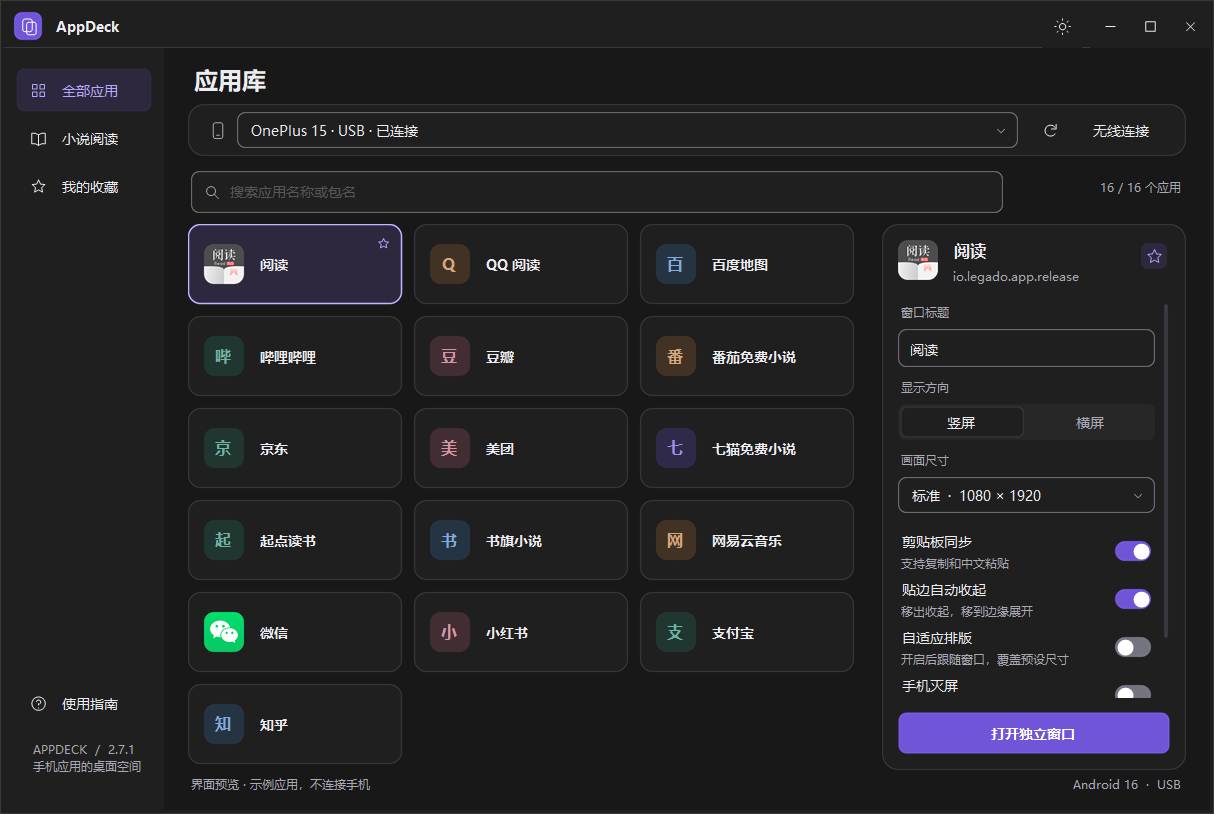
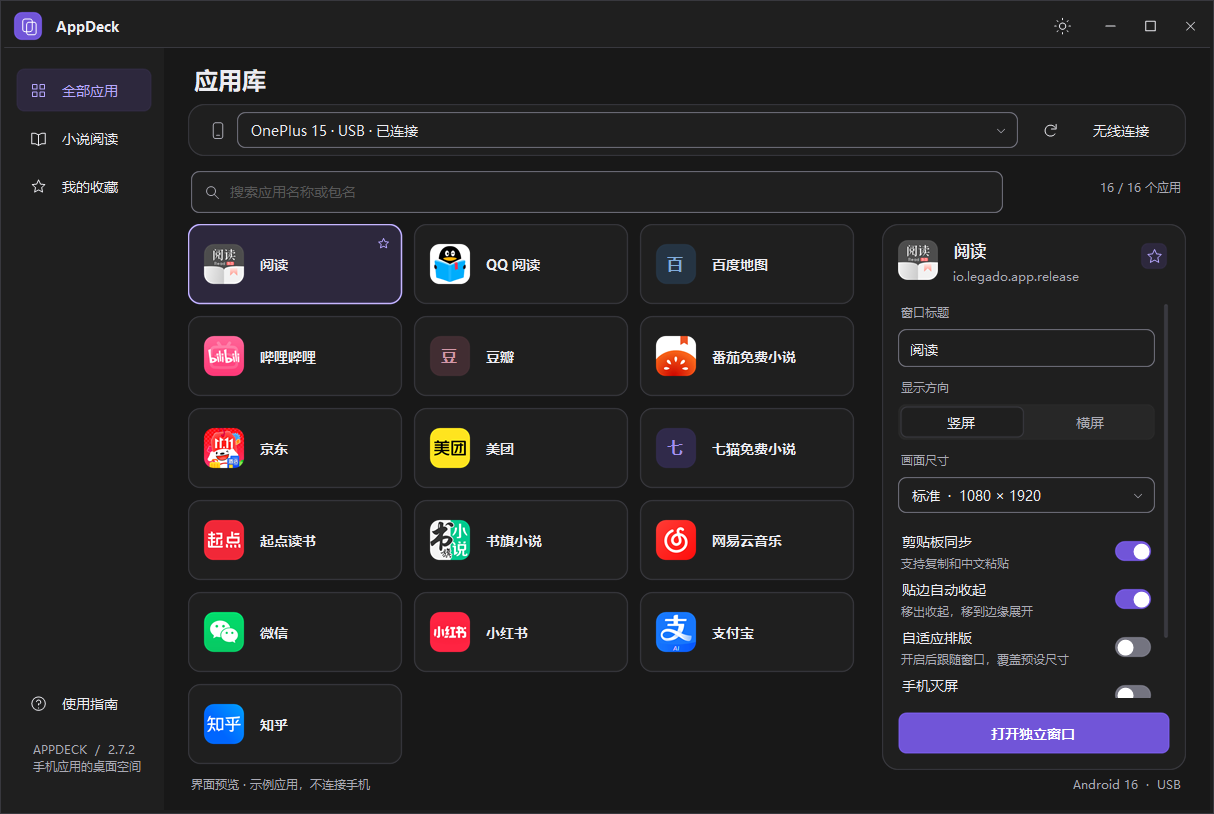
修复 2.7.2：窗口边框完整性与应用缓存优先显示

diff --git a/src/MainForm.cs b/src/MainForm.cs
@@ -22,7 +22,7 @@ namespace AppDeck {
         readonly HashSet<string> openingSessions=new HashSet<string>();
         readonly string[] startupArgs;readonly bool preview;
         List<AndroidApp> apps=new List<AndroidApp>();Button refresh,launch;IconButton favorite,themeButton;NotifyIcon tray;ContextMenuStrip trayMenu;int category,loadGeneration;
-        bool refreshing,closing,closeRequested,appsLoading,hiddenToTray,forceExit;string deviceSignature="",catalogError="";
+        bool refreshing,closing,closeRequested,appsLoading,hiddenToTray,forceExit;string deviceSignature="",catalogError="",catalogDevice="";
         public MainForm(string[] args){
             startupArgs=args;preview=args.Contains("--preview");Text="AppDeck";ClientSize=new Size(1200,800);MinimumSize=new Size(1050,740);StartPosition=FormStartPosition.CenterScreen;KeyPreview=true;
             themeButton=Caption.AddAction(Theme.Dark?"sun":"moon","切换亮色 / 暗色",(s,e)=>ToggleTheme());
@@ -103,16 +103,31 @@ namespace AppDeck {
             if(closeRequested||IsDisposed)return;if(SelectedDevice!=null)await LoadApps();if(recoveryNotice.Length>0&&!IsDisposed)status.Text=recoveryNotice;
         }
         async Task LoadApps(){
-            if(closeRequested)return;catalogError="";int generation=++loadGeneration;var device=SelectedDevice;appsLoading=device!=null&&device.State=="device";apps.Clear();RenderApps();if(device==null)return;if(device.State!="device"){deviceInfo.Text=device.State=="unauthorized"?"请在手机上允许 USB 调试。":"设备离线，请重新连接。";status.Text=deviceInfo.Text;return;}
-            if(device.Wireless&&String.IsNullOrEmpty(device.HardwareId)){appsLoading=false;RenderApps();status.Text="无线设备身份尚未确认，请稍候刷新后重试。";return;}
-            status.Text="正在读取手机应用…";launch.Enabled=false;
-            try{await TaskLease.Recover(device.Serial,device.HardwareId);var appTask=Commands.Run(Paths.Scrcpy,new[]{"-s",device.Serial,"--list-apps"},45000);var modelTask=Commands.Adb(device.Serial,"shell","getprop","ro.product.model");var verTask=Commands.Adb(device.Serial,"shell","getprop","ro.build.version.release");await Task.WhenAll(appTask,modelTask,verTask);var r=await appTask;r.Ensure();var model=await modelTask;var version=await verTask;if(generation!=loadGeneration||IsDisposed||closeRequested)return;appsLoading=false;apps=AndroidApp.Parse(r.Combined).Where(a=>!a.System).ToList();prefs.Serial=device.Serial;prefs.DeviceId=device.HardwareId??"";deviceInfo.Text=model.Output.Trim()+"  ·  Android "+version.Output.Trim();RenderApps();LoadIcons(device,apps,generation);status.Text="双击应用卡片打开窗口";}
-            catch(Exception ex){if(generation==loadGeneration&&!closeRequested){catalogError=ex.Message;status.Text="读取失败："+ex.Message;}}
+            if(closeRequested)return;catalogError="";int generation=++loadGeneration;var device=SelectedDevice;
+            if(device==null||device.State!="device"){
+                appsLoading=false;apps.Clear();catalogDevice="";RenderApps();
+                if(device!=null){deviceInfo.Text=device.State=="unauthorized"?"请在手机上允许 USB 调试。":"设备离线，请重新连接。";status.Text=deviceInfo.Text;}return;
+            }
+            if(device.Wireless&&String.IsNullOrEmpty(device.HardwareId)){appsLoading=false;apps.Clear();RenderApps();status.Text="无线设备身份尚未确认，请稍候刷新后重试。";return;}
+            string key=DeviceCache.Folder(device);var cached=DeviceCache.ReadCatalog(device);
+            if(cached.Count>0)apps=cached;else if(catalogDevice!=key)apps.Clear();catalogDevice=key;
+            appsLoading=true;AppIcons.AssignCached(device,apps);RenderApps();status.Text=apps.Count>0?"已显示本地应用，正在同步手机列表…":"正在读取手机应用…";
+            try{
+                await TaskLease.Recover(device.Serial,device.HardwareId);
+                var appTask=Commands.Run(Paths.Scrcpy,new[]{"-s",device.Serial,"--list-apps"},45000);
+                var modelTask=Commands.Adb(device.Serial,"shell","getprop","ro.product.model");var verTask=Commands.Adb(device.Serial,"shell","getprop","ro.build.version.release");
+                await Task.WhenAll(appTask,modelTask,verTask);var r=await appTask;r.Ensure();var model=await modelTask;var version=await verTask;
+                if(generation!=loadGeneration||IsDisposed||closeRequested)return;
+                var catalog=AndroidApp.Parse(r.Combined);if(catalog.Count==0)throw new Exception("未读取到应用列表，请稍后刷新。");
+                apps=catalog.Where(a=>!a.System).ToList();AppIcons.AssignCached(device,apps);DeviceCache.SaveCatalog(device,apps);
+                prefs.Serial=device.Serial;prefs.DeviceId=device.HardwareId??"";deviceInfo.Text=model.Output.Trim()+"  ·  Android "+version.Output.Trim();
+                appsLoading=false;RenderApps();LoadIcons(device,apps,generation);status.Text="双击应用卡片打开窗口";
+            }catch(Exception ex){if(generation==loadGeneration&&!closeRequested){catalogError=ex.Message;status.Text="读取失败："+ex.Message;}}
             finally{if(generation==loadGeneration&&!IsDisposed&&!closeRequested){appsLoading=false;RenderApps();}}
         }
-        void RenderApps(){string selected=SelectedApp==null?prefs.Package:SelectedApp.Package;var view=AppCatalog.Select(apps,category,search.Text,prefs.Favorites);appList.Loading=appsLoading;appList.EmptyTitle=catalogError.Length>0?"暂时无法读取应用":appsLoading?"正在读取应用":apps.Count==0?"等待手机连接":"没有找到应用";appList.EmptyDetail=catalogError.Length>0?"请检查手机连接，然后点击设备栏的刷新按钮重试。":appsLoading?"正在为你的应用准备桌面空间。":apps.Count==0?"连接 USB 或无线 ADB 后，应用会自动出现在这里。":"试试其他关键词，或切换到全部应用。";appList.SetItems(view,prefs.Favorites,selected);catalogCount.Text=appsLoading?"正在读取…":String.Format("{0} / {1} 个应用",view.Count,apps.Count);UpdateLaunchButtons();}
+        void RenderApps(){string selected=SelectedApp==null?prefs.Package:SelectedApp.Package;var view=AppCatalog.Select(apps,category,search.Text,prefs.Favorites);appList.Loading=appsLoading;appList.EmptyTitle=catalogError.Length>0?"暂时无法读取应用":appsLoading?"正在读取应用":apps.Count==0?"等待手机连接":"没有找到应用";appList.EmptyDetail=catalogError.Length>0?"请检查手机连接，然后点击设备栏的刷新按钮重试。":appsLoading?"正在为你的应用准备桌面空间。":apps.Count==0?"连接 USB 或无线 ADB 后，应用会自动出现在这里。":"试试其他关键词，或切换到全部应用。";appList.SetItems(view,prefs.Favorites,selected);catalogCount.Text=appsLoading?(apps.Count>0?"正在同步…":"正在读取…"):String.Format("{0} / {1} 个应用",view.Count,apps.Count);UpdateLaunchButtons();}
         async void LoadIcons(Device device,List<AndroidApp> catalog,int generation){try{AppIcons.AssignCached(device,catalog);appList.Invalidate();badge.Invalidate();await AppIcons.Fetch(device,catalog);if(!IsDisposed&&!closeRequested&&generation==loadGeneration){AppIcons.AssignCached(device,catalog);appList.Invalidate();badge.Invalidate();}}catch(Exception){}}
-        void UpdateLaunchButtons(){var d=SelectedDevice;bool connected=d!=null&&d.State=="device"&&!appsLoading&&(!d.Wireless||!String.IsNullOrEmpty(d.HardwareId));if(launch!=null)launch.Enabled=connected&&SelectedApp!=null;}
+        void UpdateLaunchButtons(){var d=SelectedDevice;bool connected=d!=null&&d.State=="device"&&!appsLoading&&catalogError.Length==0&&(!d.Wireless||!String.IsNullOrEmpty(d.HardwareId));if(launch!=null)launch.Enabled=connected&&SelectedApp!=null;}
         void LaunchSelected(){var a=SelectedApp;if(a!=null)Launch(a);}
         async void Launch(AndroidApp app,string captionOverride=null){
             if(!preview&&SelectedDevice!=null&&SelectedDevice.Wireless&&String.IsNullOrEmpty(SelectedDevice.HardwareId)){status.Text="请先等待无线设备身份核对完成。";return;}

diff --git a/src/UI.cs b/src/UI.cs
@@ -161,7 +161,7 @@ namespace AppDeck {
         int scrollOffset,maxScroll;bool scrollDrag;readonly ToolTip hint=new ToolTip{InitialDelay=600,ReshowDelay=200};
         public bool Loading {get;set;}
         public CatalogView(){DoubleBuffered=true;AutoScroll=false;TabStop=true;AccessibleName="应用卡片列表";SetStyle(ControlStyles.Selectable|ControlStyles.ResizeRedraw,true);Theme.Watch(this,()=>{BackColor=Theme.Paper;Invalidate();});}
-        public void SetItems(List<AndroidApp> data,HashSet<string> stars,string package){items=data;favorites=stars;selected=items.FindIndex(a=>a.Package==package);if(selected<0&&items.Count>0)selected=0;scrollOffset=0;Measure();Notify();Invalidate();}
+        public void SetItems(List<AndroidApp> data,HashSet<string> stars,string package){bool same=items.Select(a=>a.Package).SequenceEqual(data.Select(a=>a.Package));items=data;favorites=stars;selected=items.FindIndex(a=>a.Package==package);if(selected<0&&items.Count>0)selected=0;if(!same)scrollOffset=0;Measure();Notify();Invalidate();}
         void Notify(){var a=SelectedApp;AccessibleDescription=a==null?EmptyTitle:"已选择 "+a.Name+"，按 Enter 打开窗口";var h=SelectionChanged;if(h!=null)h(this,EventArgs.Empty);}
         void Measure(){using(var g=CreateGraphics())scale=g.DpiX/96f;gap=(int)(12*scale);cardHeight=(int)(80*scale);int available=Math.Max(1,ClientSize.Width-(int)(12*scale));cols=Math.Max(1,(available+gap)/(int)(204*scale));cardWidth=Math.Max(1,(available-gap*(cols-1))/cols);maxScroll=Math.Max(0,((items.Count+cols-1)/cols)*(cardHeight+gap)-gap-ClientSize.Height);scrollOffset=Math.Min(scrollOffset,maxScroll);}
         protected override void OnResize(EventArgs e){base.OnResize(e);Measure();Invalidate();}
@@ -190,11 +190,12 @@ namespace AppDeck {
     }
     internal class ModernForm:Form {
         public readonly Panel Body=new Panel();public readonly CaptionBar Caption;public bool FullBleed;
+        internal bool NativeBorderApplied {get;private set;}
         public ModernForm(){AutoScaleDimensions=new SizeF(96,96);AutoScaleMode=AutoScaleMode.Dpi;Font=Theme.Font();try{Icon=Icon.ExtractAssociatedIcon(Application.ExecutablePath);}catch{}FormBorderStyle=FormBorderStyle.None;DoubleBuffered=true;Padding=new Padding(4);Caption=new CaptionBar(this){Dock=DockStyle.Top,Height=44};Body.Dock=DockStyle.Fill;Controls.Add(Body);Controls.Add(Caption);Theme.Watch(this,()=>{BackColor=Theme.Surface;ForeColor=Theme.Ink;Body.BackColor=Theme.Paper;ApplyDwm();Invalidate(true);});TextChanged+=(s,e)=>Caption.Invalidate();}
         protected override CreateParams CreateParams{get{var cp=base.CreateParams;cp.Style=(cp.Style&~0x00C00000)|0x00040000|0x00080000|0x00020000|0x00010000;cp.ExStyle&=~0x00020301;return cp;}}
         protected override void OnHandleCreated(EventArgs e){base.OnHandleCreated(e);ApplyDwm();Native.SetWindowPos(Handle,IntPtr.Zero,0,0,0,0,0x0037);}
-        void ApplyDwm(){if(!IsHandleCreated)return;int dark=Theme.Dark?1:0,corners=2,noBorder=-2;try{DwmSetWindowAttribute(Handle,20,ref dark,4);DwmSetWindowAttribute(Handle,33,ref corners,4);DwmSetWindowAttribute(Handle,34,ref noBorder,4);var m=new Margins();DwmExtendFrameIntoClientArea(Handle,ref m);}catch(DllNotFoundException){}catch(EntryPointNotFoundException){}}
-        protected override void OnPaint(PaintEventArgs e){base.OnPaint(e);using(var pen=new Pen(Theme.Line))e.Graphics.DrawRectangle(pen,0,0,ClientSize.Width-1,ClientSize.Height-1);}
+        void ApplyDwm(){if(!IsHandleCreated)return;int dark=Theme.Dark?1:0,corners=2;Color color=Theme.Line;int border=color.R|(color.G<<8)|(color.B<<16);NativeBorderApplied=false;try{DwmSetWindowAttribute(Handle,20,ref dark,4);DwmSetWindowAttribute(Handle,33,ref corners,4);NativeBorderApplied=DwmSetWindowAttribute(Handle,34,ref border,4)==0;var m=new Margins();DwmExtendFrameIntoClientArea(Handle,ref m);}catch(DllNotFoundException){}catch(EntryPointNotFoundException){}}
+        protected override void OnPaint(PaintEventArgs e){base.OnPaint(e);if(!NativeBorderApplied)using(var pen=new Pen(Theme.Line))e.Graphics.DrawRectangle(pen,0,0,ClientSize.Width-1,ClientSize.Height-1);}
         protected override void WndProc(ref Message m){
             // Reserving no non-client area is not enough: DefWindowProc can repaint a
             // classic caption on activation or text changes. The client owns all chrome.
@@ -221,7 +222,7 @@ namespace AppDeck {
         public bool WindowButtonBoundsReady{get{return (!showMinimize||minimize.Width>=24)&&(!showMaximize||maximize.Width>=24)&&(!showClose||close.Width>=24);}}
         public IconButton AddAction(string glyph,string hint,EventHandler action){var b=new IconButton(glyph,hint);b.Click+=action;actions.Add(b);Controls.Add(b);PerformLayout();return b;}
         public IconButton AddLeading(string glyph,string hint,EventHandler action){Leading=new IconButton(glyph,hint);Leading.Click+=action;Controls.Add(Leading);PerformLayout();return Leading;}
-        protected override void OnLayout(LayoutEventArgs le){base.OnLayout(le);float s=Height/44f;int w=(int)(Compact?34*s:40*s),right=Width;close.Visible=showClose;maximize.Visible=showMaximize;minimize.Visible=showMinimize;if(showClose){right-=w;close.SetBounds(right,0,w,Height);}if(showMaximize){right-=w;maximize.SetBounds(right,0,w,Height);}if(showMinimize){right-=w;minimize.SetBounds(right,0,w,Height);}right-=(int)(8*s);for(int i=actions.Count-1;i>=0;i--){right-=w;actions[i].SetBounds(right,0,w,Height);}if(Leading!=null)Leading.SetBounds(0,0,w,Height);}
+        protected override void OnLayout(LayoutEventArgs le){base.OnLayout(le);float s=Height/44f;int w=(int)(Compact?34*s:40*s),right=Width,buttonHeight=Math.Max(1,Height-1);close.Visible=showClose;maximize.Visible=showMaximize;minimize.Visible=showMinimize;if(showClose){right-=w;close.SetBounds(right,0,w,buttonHeight);}if(showMaximize){right-=w;maximize.SetBounds(right,0,w,buttonHeight);}if(showMinimize){right-=w;minimize.SetBounds(right,0,w,buttonHeight);}right-=(int)(8*s);for(int i=actions.Count-1;i>=0;i--){right-=w;actions[i].SetBounds(right,0,w,buttonHeight);}if(Leading!=null)Leading.SetBounds(0,0,w,buttonHeight);}
         protected override void OnPaint(PaintEventArgs e){base.OnPaint(e);var g=e.Graphics;float s=Height/44f;g.SmoothingMode=SmoothingMode.AntiAlias;int left=(int)(14*s);if(Leading==null){PaintKit.Fill(g,new RectangleF(10*s,8*s,28*s,28*s),Theme.AccentFill,8*s);PaintKit.Icon(g,"logo",new RectangleF(15*s,12*s,19*s,19*s),Color.White);left=(int)(48*s);}else left=Leading.Right+5;
             int end=actions.Count>0?actions[0].Left-8:(showMinimize?minimize.Left:showMaximize?maximize.Left:showClose?close.Left:Width)-10;string text=owner.Text.Replace(" · AppDeck","");using(var f=Theme.Font(Compact?9:10,true))PaintKit.Text(g,text,f,Theme.Ink,new Rectangle(left,0,Math.Max(0,end-left),Height));using(var p=new Pen(Theme.Line))g.DrawLine(p,0,Height-1,Width,Height-1);}
     }

diff --git a/src/UIPreview.cs b/src/UIPreview.cs
@@ -22,7 +22,7 @@ namespace AppDeck {
                 SaveMenu(Path.Combine(folder,"cast-menu-"+suffix+".png"));
                 DrawingQualityChecks.Render(folder,suffix);
             }
-            File.WriteAllText(Path.Combine(folder,"render-check.txt"),"PASS: 44 offscreen renders; light/dark; main normal/compact/scrolled/loading/empty states; cast portrait/compact/landscape and waiting states down to 330x300; shortcut/wireless discovery/pairing/manual/close dialogs; caption and waiting action bounds; text/button contrast >=4.5 and control borders >=3.0; cast menu without check/image columns; rounded-image/border fractional alpha and unchanged image interior at 100/125/150/200 percent raster scales. No device access or desktop capture; raster scales do not change system DPI.\r\n");return 0;
+            File.WriteAllText(Path.Combine(folder,"render-check.txt"),"PASS: 44 offscreen renders; light/dark; main normal/compact/scrolled/loading/empty states; cast portrait/compact/landscape and waiting states down to 330x300; shortcut/wireless discovery/pairing/manual/close dialogs; caption and waiting action bounds; full-width caption dividers including below buttons; text/button contrast >=4.5 and control borders >=3.0; cast menu without check/image columns; rounded-image/border fractional alpha and unchanged image interior at 100/125/150/200 percent raster scales. No device access or desktop capture; raster scales do not change system DPI.\r\n");return 0;
         }catch(Exception ex){File.WriteAllText(Path.Combine(folder,"error.txt"),ex.ToString());return 1;}}
         static double Luminance(Color c){double[] rgb={c.R/255.0,c.G/255.0,c.B/255.0};for(int i=0;i<3;i++)rgb[i]=rgb[i]<=.04045?rgb[i]/12.92:Math.Pow((rgb[i]+.055)/1.055,2.4);return rgb[0]*.2126+rgb[1]*.7152+rgb[2]*.0722;}
         static double Contrast(Color a,Color b){double x=Luminance(a),y=Luminance(b);return (Math.Max(x,y)+.05)/(Math.Min(x,y)+.05);}
@@ -46,8 +46,9 @@ namespace AppDeck {
                 }
             }
         }
-        static void Save(Form form,string path){form.TopLevel=false;form.CreateControl();Layout(form);var modern=form as ModernForm;if(modern!=null){int expected=form is CloseChoiceDialog||form is WirelessDialog?1:3;if(modern.Caption.ConfiguredWindowButtonCount!=expected)throw new Exception("Unexpected caption button count: "+path);modern.Caption.PerformLayout();if(!modern.Caption.WindowButtonBoundsReady)throw new Exception("Caption buttons were not laid out while the form was hidden: "+path);}form.Visible=true;Layout(form);if(modern!=null)foreach(Control button in modern.Caption.Controls)if(button.Visible&&(button.Left<0||button.Right>modern.Caption.Width||button.Width<24))throw new Exception("Caption button clipped: "+path);using(var bitmap=new Bitmap(form.Width,form.Height)){form.DrawToBitmap(bitmap,new Rectangle(Point.Empty,bitmap.Size));bitmap.Save(path,System.Drawing.Imaging.ImageFormat.Png);}}
+        static void Save(Form form,string path){form.TopLevel=false;form.CreateControl();Layout(form);var modern=form as ModernForm;if(modern!=null){int expected=form is CloseChoiceDialog||form is WirelessDialog?1:3;if(modern.Caption.ConfiguredWindowButtonCount!=expected)throw new Exception("Unexpected caption button count: "+path);modern.Caption.PerformLayout();if(!modern.Caption.WindowButtonBoundsReady)throw new Exception("Caption buttons were not laid out while the form was hidden: "+path);}form.Visible=true;Layout(form);if(modern!=null)CheckCaptionLine(modern.Caption);if(modern!=null)foreach(Control button in modern.Caption.Controls)if(button.Visible&&(button.Left<0||button.Right>modern.Caption.Width||button.Width<24))throw new Exception("Caption button clipped: "+path);using(var bitmap=new Bitmap(form.Width,form.Height)){form.DrawToBitmap(bitmap,new Rectangle(Point.Empty,bitmap.Size));bitmap.Save(path,System.Drawing.Imaging.ImageFormat.Png);}}
         static void Layout(Control c){c.CreateControl();c.PerformLayout();foreach(Control child in c.Controls)Layout(child);}
+        static void CheckCaptionLine(CaptionBar caption){using(var bitmap=new Bitmap(caption.Width,caption.Height)){caption.DrawToBitmap(bitmap,new Rectangle(Point.Empty,bitmap.Size));int reference=bitmap.GetPixel(2,caption.Height-1).ToArgb();if(reference==Theme.Surface.ToArgb())throw new Exception("Caption divider missing");foreach(Control button in caption.Controls)if(button.Visible&&bitmap.GetPixel(button.Left+button.Width/2,caption.Height-1).ToArgb()!=reference)throw new Exception("Caption button covers the divider");}}
     }
     internal sealed class ReadingPreview:Control {
         public ReadingPreview(){DoubleBuffered=true;Theme.Watch(this,()=>{BackColor=Theme.Paper;Invalidate();});}

diff --git a/src/Program.cs b/src/Program.cs
@@ -45,8 +45,9 @@ namespace AppDeck {
                 if(!DisplayTasks.NeedingResize(stacks,23,new System.Drawing.Size(1920,1080)).SequenceEqual(new[]{10})||DisplayTasks.NeedingResize(stacks,0,new System.Drawing.Size(1920,1080)).Any())throw new Exception("virtual-display task isolation");
                 if(!File.Exists(Paths.Scrcpy)||!File.Exists(Paths.Adb)||!File.Exists(Path.Combine(Paths.Runtime,"appdeck-layout.jar")))throw new Exception("runtime missing");
                 WirelessChecks.Run();
+                DeviceCacheChecks.Run();
                 EdgeDockChecks.Geometry();
-                File.WriteAllText(Path.Combine(Paths.Data,"self-test.txt"),"PASS: app/device parsing, system app exclusion (all/search/favorites), catalog search/categories, argument escaping, endpoint validation, package validation, main close action validation, 8 display size/orientation combinations, virtual-display task isolation (main/other/hidden/already-sized tasks excluded), bundled runtime; wireless discovery, pairing via stdin, remembered reconnect with changed endpoints, retry throttling, identity and journal isolation, failure handling and coalesced scans; edge docking geometry and working-area boundaries\r\n",Encoding.UTF8);
+                File.WriteAllText(Path.Combine(Paths.Data,"self-test.txt"),"PASS: app/device parsing, system app exclusion (all/search/favorites), catalog search/categories, argument escaping, endpoint validation, package validation, main close action validation, 8 display size/orientation combinations, virtual-display task isolation (main/other/hidden/already-sized tasks excluded), bundled runtime; wireless discovery, pairing via stdin, remembered reconnect with changed endpoints, retry throttling, identity and journal isolation, failure handling and coalesced scans; edge docking geometry and working-area boundaries; persistent device catalogs and fresh/missing/expired icon cache selection\r\n",Encoding.UTF8);
                 return 0;
             } catch(Exception ex) {File.WriteAllText(Path.Combine(Paths.Data,"self-test.txt"),ex.ToString()); return 1;}
         }
@@ -58,7 +59,10 @@ namespace AppDeck {
                 var all=AppCatalog.Select(apps,0,"",favorites);
                 if(all.Count!=apps.Count(a=>!a.System)||all.Any(a=>a.System))throw new Exception("System filtering mismatch");
                 var wx=AppCatalog.Select(apps,0,"com.tencent.mm",favorites);if(wx.Count!=1||wx[0].Name!="微信")throw new Exception("WeChat search mismatch");
+                var identity=Commands.Adb(serial,"shell","getprop","ro.serialno").GetAwaiter().GetResult();identity.Ensure();var device=new Device{Serial=serial,HardwareId=identity.Output.Trim()};
+                if(!DeviceCache.SaveCatalog(device,all))throw new Exception("Catalog cache could not be saved");AppIcons.AssignCached(device,all);int cachedIcons=all.Count(a=>a.Icon!=null),pendingIcons=AppIcons.PendingPackages(device,all).Count;
                 string report="PASS: live device catalog\r\nLaunchable packages: "+apps.Count+"\r\nVisible user apps: "+all.Count+"\r\nExcluded system apps: "+apps.Count(a=>a.System)+"\r\nWeChat package search: "+wx.Count+"\r\nReading apps: "+AppCatalog.Select(apps,1,"",favorites).Count+"\r\nSystem package search: "+AppCatalog.Select(apps,0,"com.android.settings",favorites).Count+"\r\n";
+                report+="Cached catalog: "+DeviceCache.ReadCatalog(device).Count+"\r\nCached icons loaded from disk: "+cachedIcons+"\r\nIcons requiring phone transfer: "+pendingIcons+"\r\n";
                 File.WriteAllText(Path.Combine(Paths.Data,"catalog-check.txt"),report,Encoding.UTF8);return 0;
             }catch(Exception ex){File.WriteAllText(Path.Combine(Paths.Data,"catalog-check.txt"),ex.ToString());return 1;}
         }

diff --git a/src/AppIcons.cs b/src/AppIcons.cs
@@ -3,8 +3,6 @@ using System.Collections.Generic;
 using System.Drawing;
 using System.IO;
 using System.Linq;
-using System.Security.Cryptography;
-using System.Text;
 using System.Threading;
 using System.Threading.Tasks;
 
@@ -12,16 +10,17 @@ namespace AppDeck {
     internal static class AppIcons {
         static readonly Dictionary<string,Image> images=new Dictionary<string,Image>();
         static readonly SemaphoreSlim gate=new SemaphoreSlim(1,1);
-        static string Folder(Device device){using(var hash=SHA256.Create()){string key=BitConverter.ToString(hash.ComputeHash(Encoding.UTF8.GetBytes(device.HardwareId??device.Serial))).Replace("-","").Substring(0,24);return Path.Combine(Paths.Data,"icons","v2-"+key);}}
+        static string Folder(Device device){return DeviceCache.Folder(device);}
         public static void AssignCached(Device device,IEnumerable<AndroidApp> apps){
             string folder=Folder(device);foreach(var app in apps){string path=Path.Combine(folder,app.Package+".png");Image image;
-                if(!images.TryGetValue(path,out image)&&File.Exists(path))try{using(var input=new MemoryStream(File.ReadAllBytes(path)))using(var decoded=Image.FromStream(input)){image=new Bitmap(decoded);images[path]=image;}}catch(ArgumentException){try{File.Delete(path);}catch(IOException){}}catch(IOException){}
+                if(!images.TryGetValue(path,out image)&&File.Exists(path))try{using(var input=new MemoryStream(File.ReadAllBytes(path)))using(var decoded=Image.FromStream(input)){image=new Bitmap(decoded);images[path]=image;}}catch(ArgumentException){try{File.Delete(path);}catch(IOException){}catch(UnauthorizedAccessException){}}catch(IOException){}catch(UnauthorizedAccessException){}
                 if(image!=null)app.Icon=image;
             }
         }
+        internal static List<string> PendingPackages(Device device,IEnumerable<AndroidApp> apps,string dataRoot=null){string folder=DeviceCache.Folder(device,dataRoot);return apps.Select(a=>a.Package).Where(Commands.ValidPackage).Distinct().Where(p=>!File.Exists(Path.Combine(folder,p+".png"))||File.GetLastWriteTimeUtc(Path.Combine(folder,p+".png"))<DateTime.UtcNow.AddDays(-7)).ToList();}
         public static async Task Fetch(Device device,IEnumerable<AndroidApp> apps){
             await gate.WaitAsync();try{
-                string folder=Folder(device);var packages=apps.Select(a=>a.Package).Where(Commands.ValidPackage).Distinct().Where(p=>!File.Exists(Path.Combine(folder,p+".png"))||File.GetLastWriteTimeUtc(Path.Combine(folder,p+".png"))<DateTime.UtcNow.AddDays(-7)).ToList();
+                string folder=Folder(device);var packages=PendingPackages(device,apps);
                 if(packages.Count==0)return;Directory.CreateDirectory(folder);string remote="/data/local/tmp/appdeck-icons-"+Guid.NewGuid().ToString("N")+".jar";
                 try{
                     var upload=await Commands.Adb(device.Serial,"push",Path.Combine(Paths.Runtime,"appdeck-layout.jar"),remote);upload.Ensure();

diff --git a/src/DeviceCacheChecks.cs b/src/DeviceCacheChecks.cs
@@ -1,0 +1,29 @@
+using System;
+using System.Drawing;
+using System.IO;
+using System.Linq;
+
+namespace AppDeck {
+    internal static class DeviceCacheChecks {
+        static void Check(bool ok,string name){if(!ok)throw new Exception("device cache: "+name);}
+        public static void Run(){
+            string tempBase=Path.GetFullPath(Path.GetTempPath()).TrimEnd(Path.DirectorySeparatorChar)+Path.DirectorySeparatorChar;
+            string root=Path.Combine(tempBase,"appdeck-cache-check-"+Guid.NewGuid().ToString("N"));
+            try{
+                var wifi=new Device{Serial="192.168.1.10:32123",HardwareId="phone-a"};var changed=new Device{Serial="192.168.1.11:39999",HardwareId="phone-a"};var usb=new Device{Serial="phone-a",HardwareId=""};var other=new Device{Serial=wifi.Serial,HardwareId="phone-b"};
+                Check(DeviceCache.Folder(wifi,root)==DeviceCache.Folder(changed,root)&&DeviceCache.Folder(wifi,root)==DeviceCache.Folder(usb,root),"USB, wireless and changed endpoints share a stable phone identity");
+                var catalog=new[]{new AndroidApp{Name="阅读 & 测试",Package="io.legado.app.release"},new AndroidApp{Name="系统应用",Package="android.system",System=true},new AndroidApp{Name="无效",Package="../invalid"},new AndroidApp{Name="重复",Package="io.legado.app.release"}};
+                Check(DeviceCache.SaveCatalog(wifi,catalog,root),"catalog saved");var loaded=DeviceCache.ReadCatalog(changed,root);Check(loaded.Count==1&&loaded[0].Name==catalog[0].Name,"persistent catalog round-trip and user-app filtering");
+                Check(DeviceCache.ReadCatalog(other,root).Count==0,"phones do not share catalogs");
+                string folder=DeviceCache.Folder(wifi,root),icon=Path.Combine(folder,loaded[0].Package+".png");using(var bitmap=new Bitmap(192,192))bitmap.Save(icon,System.Drawing.Imaging.ImageFormat.Png);
+                Check(AppIcons.PendingPackages(wifi,loaded,root).Count==0,"fresh disk icons require no phone transfer after restart");
+                File.SetLastWriteTimeUtc(icon,DateTime.UtcNow.AddDays(-8));Check(AppIcons.PendingPackages(wifi,loaded,root).Count==1,"only expired icons are refreshed");
+                File.Delete(icon);Check(AppIcons.PendingPackages(wifi,loaded,root).Count==1,"missing icons are fetched");
+                Check(DeviceCache.SaveCatalog(wifi,new AndroidApp[0],root)&&DeviceCache.ReadCatalog(wifi,root).Count==0,"sync removes uninstalled apps");
+                File.WriteAllText(Path.Combine(folder,"catalog.xml"),"<broken");Check(DeviceCache.ReadCatalog(wifi,root).Count==0,"corrupt metadata falls back to a phone refresh");
+            }finally{
+                string target=Path.GetFullPath(root);if(target.StartsWith(tempBase,StringComparison.OrdinalIgnoreCase)&&Path.GetFileName(target).StartsWith("appdeck-cache-check-",StringComparison.Ordinal)&&Directory.Exists(target))Directory.Delete(target,true);
+            }
+        }
+    }
+}

diff --git a/src/DeviceCache.cs b/src/DeviceCache.cs
@@ -1,0 +1,31 @@
+using System;
+using System.Collections.Generic;
+using System.IO;
+using System.Linq;
+using System.Security.Cryptography;
+using System.Text;
+using System.Xml.Linq;
+
+namespace AppDeck {
+    internal static class DeviceCache {
+        public static string Folder(Device device,string dataRoot=null){
+            string identity=String.IsNullOrWhiteSpace(device.HardwareId)?device.Serial??"":device.HardwareId;
+            using(var hash=SHA256.Create()){string key=BitConverter.ToString(hash.ComputeHash(Encoding.UTF8.GetBytes(identity))).Replace("-","").Substring(0,24);return Path.Combine(dataRoot??Paths.Data,"icons","v2-"+key);}
+        }
+        public static List<AndroidApp> ReadCatalog(Device device,string dataRoot=null){
+            try{
+                var root=XElement.Load(Path.Combine(Folder(device,dataRoot),"catalog.xml"));if(root.Name!="catalog"||(int?)root.Attribute("schema")!=1)return new List<AndroidApp>();
+                return root.Elements("app").Take(2000).Select(e=>new AndroidApp{Name=(string)e.Attribute("name"),Package=(string)e.Attribute("package")}).Where(a=>Commands.ValidPackage(a.Package)&&!String.IsNullOrWhiteSpace(a.Name)).GroupBy(a=>a.Package).Select(g=>g.First()).ToList();
+            }catch(IOException){}catch(UnauthorizedAccessException){}catch(System.Xml.XmlException){}catch(FormatException){}catch(OverflowException){}
+            return new List<AndroidApp>();
+        }
+        public static bool SaveCatalog(Device device,IEnumerable<AndroidApp> apps,string dataRoot=null){
+            string folder=Folder(device,dataRoot),temp=Path.Combine(folder,"catalog-"+Guid.NewGuid().ToString("N")+".tmp"),path=Path.Combine(folder,"catalog.xml");
+            try{
+                Directory.CreateDirectory(folder);var root=new XElement("catalog",new XAttribute("schema",1),new XAttribute("savedUtc",DateTime.UtcNow.ToString("o")),apps.Where(a=>!a.System&&Commands.ValidPackage(a.Package)&&!String.IsNullOrWhiteSpace(a.Name)).GroupBy(a=>a.Package).Select(g=>g.First()).Take(2000).Select(a=>new XElement("app",new XAttribute("package",a.Package),new XAttribute("name",a.Name))));
+                root.Save(temp);if(File.Exists(path))File.Replace(temp,path,null);else File.Move(temp,path);return true;
+            }catch(IOException){return false;}catch(UnauthorizedAccessException){return false;}catch(ArgumentException){return false;}
+            finally{try{if(File.Exists(temp))File.Delete(temp);}catch(IOException){}catch(UnauthorizedAccessException){}}
+        }
+    }
+}

diff --git a/src/EdgeDockChecks.cs b/src/EdgeDockChecks.cs
@@ -45,6 +45,7 @@ namespace AppDeck {
                 EdgeDockController controller=null;
                 form.DockController=controller=new EdgeDockController(form,()=>busy,()=>point,()=>now,()=>screens,p=>occluded?IntPtr.Zero:controller.Collapsed&&controller.TabBounds.Contains(p)?controller.TabHandle:form.Bounds.Contains(p)?Native.GetAncestor(child==IntPtr.Zero?form.Body.Handle:child,2):IntPtr.Zero);
                 var dock=form.DockController;form.Show();focus.Show();await Task.Delay(50);
+                if(form.NativeBorderApplied){int thickness;Check(DwmGetWindowAttribute(form.Handle,37,out thickness,4)==0&&thickness>0,"DWM reports a visible native frame border");}
                 try{
                     childProcess=Process.Start(new ProcessStartInfo(Application.ExecutablePath,"--edge-test-child"){UseShellExecute=false,CreateNoWindow=true});
                     bool ready=await Task.Run(()=>childProcess.WaitForInputIdle(5000));Check(ready,"test child starts");
@@ -159,5 +160,6 @@ namespace AppDeck {
         }
         [DllImport("user32.dll")]static extern IntPtr SendMessage(IntPtr h,int message,IntPtr w,IntPtr l);
         [DllImport("user32.dll")]static extern bool EnumWindows(Native.EnumProc callback,IntPtr parameter);
+        [DllImport("dwmapi.dll")]static extern int DwmGetWindowAttribute(IntPtr window,int attribute,out int value,int size);
     }
 }

diff --git a/VERIFICATION.md b/VERIFICATION.md
@@ -1,5 +1,14 @@
 # 验证记录
 
+## 2026-11-02 2.7.2 缓存优先与窗口边框完整性
+
+- 用户截图中的标题栏右侧分割线缺口为绘制问题：按钮占满标题栏高度并清除其底色，覆盖父控件画在最后一行的分割线。所有标题栏按钮和动作按钮底部预留 1 个物理像素，分割线完整贯通；44 张浅深色渲染均检查按钮下方像素与左侧分割线一致。
+- 原外框设置 DWMWA_COLOR_NONE 关闭系统边框，再由客户区矩形描边；矩形拐角与系统圆角裁切不匹配。Windows 11 改为 DWM 原生主题色边框，统一边框与圆角；不支持该属性的系统保留自绘矩形回退。主显示器真实宿主检查 DWM 可见边框厚度，并完成既有吸附/关闭回归。离屏渲染不包含系统合成的外框。
+- 核实一加 15 本地已保存 156 张 192px 图标。只读手机应用目录检查：175 个可启动包，隐藏 19 个系统应用，156 个用户应用；156 张图标全部命中本地磁盘，需向手机提取 0 张。报告 `data/catalog-check.txt`，同时已写入当前应用列表缓存。
+- 新增按设备身份的应用列表持久化，启动和刷新时先显示本地列表及图标，后台再同步。已有图标在首轮列表渲染前绑定，列表顺序未变化时保持滚动位置；同步期间以及同步失败时禁用启动操作，避免使用尚未核对的缓存启动已卸载应用。
+- 保持原七天图标有效期：全部命中时不上传图标 helper、不发起图标提取。XML 列表原子替换、过滤系统/无效/重复包；缓存损坏时回退手机读取。USB/无线和端点变化共用稳定设备身份，不与其他手机混用。
+- 构建、自检、44 张渲染和主显示器窗口回归通过。新增离线检查覆盖缓存跨实例持久化、特殊字符、设备隔离、端点变化、缺失/有效/过期图标、卸载同步与损坏回退。报告 `.build/ui-2.7.2-preview/`。
+
 ## 2026-11-02 2.7.1 图标圆角抗锯齿与关闭响应
 
 - 修复应用图标使用 Graphics.SetClip 路径区域导致的硬边；改为透明覆盖度圆角绘制、高质量缩放与预乘 Alpha 位图。统一圆角填充/边框的超采样绘制，输入框和下拉框外角绘制父容器背景；避免方形底色覆盖圆角。

diff --git a/README.md b/README.md
@@ -94,6 +94,8 @@ git push origin v2.5.0
 
 应用图标保存在数据目录的 `icons/` 下，按手机身份区分，读取失败时不影响应用列表和投屏。图标缓存七天后会自动重新读取。投屏准备阶段会显示连接、启动和等待画面的进度；连接失败或需要恢复时，可直接在画面中点击“重新连接”或“恢复投屏”，详细日志通过“查看诊断”打开。
 
+应用列表也按手机身份保存在本地。后续启动或刷新时，连接身份确认后会先显示本地列表和已有图标，再后台同步新增、卸载和名称变化；完成核对前暂不可启动应用。有效期内的图标直接从电脑磁盘加载，不重复向手机提取，仅补充缺失或过期的图片。USB / 无线切换以及无线地址、端口变化仍复用同一部手机的缓存。
+
 图标使用 192 × 192 原图与透明抗锯齿圆角缩放，圆角控件使用缓存后的高质量绘制。升级后会自动创建新一代图标缓存，首次读取期间可能短暂显示字形占位。
 
 关闭投屏窗口时，窗口立即隐藏，手机任务归还与连接清理在后台继续，完成后释放宿主窗口。任务归还失败时会恢复窗口并提示重试；归还确认成功前不会结束 scrcpy。同一应用在清理期间再次打开时，会等待原窗口清理完毕。
